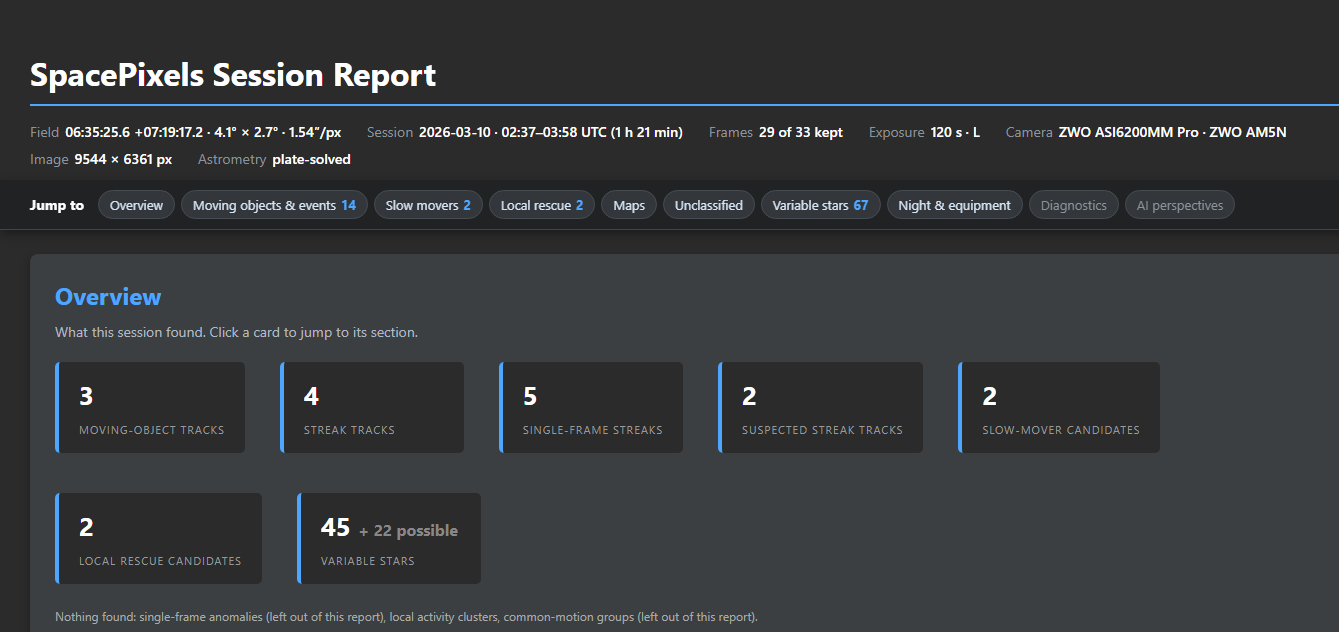
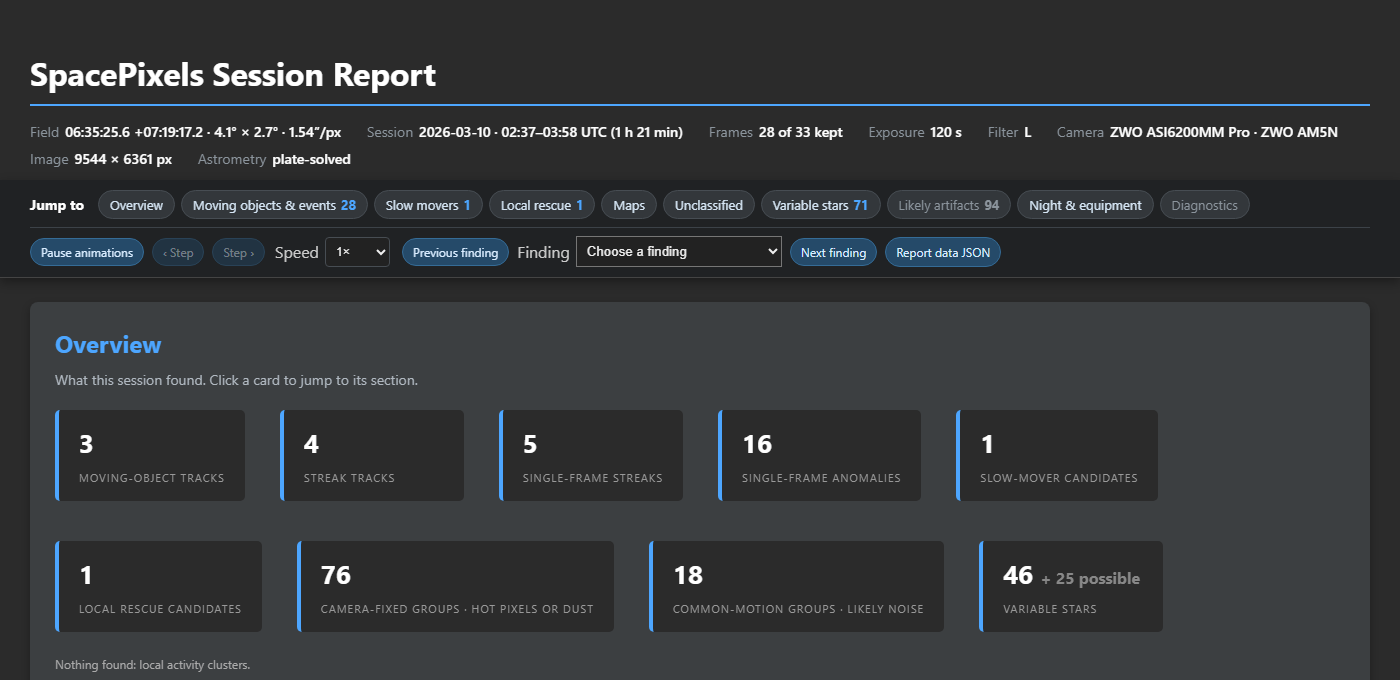
Improve appearance guidance and refresh manual screenshots
Add hover descriptions and offer to save and restart after selecting a
custom FlatLaf file. Restart only after a successful save, preserving
preferences on failure and suppressing restart while closing.

Update the manual and release notes, add dark/light appearance captures,
and refresh outdated workflow, viewer and report pictures and captions.

Validation:
- 14 targeted appearance tests passed, including save/restart ordering,
  invalid custom-file handling and closing during a save.
- Verified 17 PNG captures and 141 local documentation links/images.
- Swing captures were rendered offscreen with isolated settings and
  restored preferences; report figures used a saved real-data report.
- Staged whitespace check passed.

diff --git a/src/test/java/eu/startales/spacepixels/gui/AppearancePanelTest.java b/src/test/java/eu/startales/spacepixels/gui/AppearancePanelTest.java
@@ -1,0 +1,92 @@
+package eu.startales.spacepixels.gui;
+
+import eu.startales.spacepixels.session.ApplicationStorage;
+import org.junit.Rule;
+import org.junit.Test;
+import org.junit.rules.TemporaryFolder;
+
+import javax.swing.SwingUtilities;
+import java.nio.file.Files;
+import java.util.concurrent.CountDownLatch;
+import java.util.concurrent.TimeUnit;
+import java.util.concurrent.atomic.AtomicBoolean;
+import java.util.concurrent.atomic.AtomicInteger;
+
+import static org.junit.Assert.*;
+
+/** Checks that an agreed custom-style restart follows a successful save and respects closing or failed writes. */
+public class AppearancePanelTest {
+    @Rule public final TemporaryFolder temporary = new TemporaryFolder();
+
+    /** A queued settings write must finish before the selected custom style can trigger a restart. */
+    @Test public void savesCustomStyleBeforeRequestingRestart() throws Exception {
+        var style = temporary.newFile("custom.properties").toPath();
+        Files.writeString(style, "@background=#202020\n");
+        var preferences = temporary.newFile("appearance.json");
+        AppearanceSettings.defaults().save(preferences);
+        var storage = new ApplicationStorage();
+        var release = new CountDownLatch(1);
+        var entered = new CountDownLatch(1);
+        var restarts = new AtomicInteger();
+        storage.submit("Pending settings", () -> {
+            entered.countDown();
+            if (!release.await(10, TimeUnit.SECONDS)) throw new AssertionError("Pending write was not released");
+            return null;
+        });
+        try {
+            assertTrue(entered.await(10, TimeUnit.SECONDS));
+            SwingUtilities.invokeAndWait(() -> new AppearancePanel(
+                    new AppearanceSettings(AppearanceSettings.Theme.LIGHT, 125, style.toString()), null,
+                    preferences, storage, () -> false, restarts::incrementAndGet).save(true));
+            assertEquals(0, restarts.get());
+            assertEquals(AppearanceSettings.defaults(), AppearanceSettings.load(preferences));
+        } finally {
+            release.countDown();
+            storage.finish();
+            SwingUtilities.invokeAndWait(() -> { });
+        }
+        assertEquals(1, restarts.get());
+        assertEquals(new AppearanceSettings(AppearanceSettings.Theme.LIGHT, 125, style.toString()),
+                AppearanceSettings.load(preferences));
+    }
+
+    /** An unreadable selected file preserves saved preferences and never requests a restart. */
+    @Test public void invalidCustomStyleDoesNotSaveOrRestart() throws Exception {
+        var preferences = temporary.newFile("appearance.json");
+        AppearanceSettings.defaults().save(preferences);
+        var restarts = new AtomicInteger();
+        var storage = new ApplicationStorage();
+        try {
+            SwingUtilities.invokeAndWait(() -> new AppearancePanel(
+                    new AppearanceSettings(AppearanceSettings.Theme.DARK, 100,
+                            temporary.getRoot().toPath().resolve("missing.properties").toString()), null,
+                    preferences, storage, () -> false, restarts::incrementAndGet).save(true));
+        } finally {
+            storage.finish();
+            SwingUtilities.invokeAndWait(() -> { });
+        }
+        assertEquals(0, restarts.get());
+        assertEquals(AppearanceSettings.defaults(), AppearanceSettings.load(preferences));
+        assertTrue(storage.getSettingsFailures().containsKey("Appearance"));
+    }
+
+    /** Closing drains an admitted save without allowing its later completion to restart the application. */
+    @Test public void closingSuppressesTheRestartAfterAnAdmittedSave() throws Exception {
+        var preferences = temporary.getRoot().toPath().resolve("appearance.json").toFile();
+        var restarts = new AtomicInteger();
+        var closing = new AtomicBoolean();
+        var storage = new ApplicationStorage();
+        try {
+            SwingUtilities.invokeAndWait(() -> {
+                new AppearancePanel(AppearanceSettings.defaults(), null, preferences,
+                        storage, closing::get, restarts::incrementAndGet).save(true);
+                closing.set(true);
+            });
+        } finally {
+            storage.finish();
+            SwingUtilities.invokeAndWait(() -> { });
+        }
+        assertEquals(0, restarts.get());
+        assertEquals(AppearanceSettings.defaults(), AppearanceSettings.load(preferences));
+    }
+}

diff --git a/src/main/java/eu/startales/spacepixels/gui/AppearancePanel.java b/src/main/java/eu/startales/spacepixels/gui/AppearancePanel.java
@@ -34,6 +34,10 @@ final class AppearancePanel extends JPanel {
         this.closing = closing;
         this.preferences = preferences;
         this.restart = restart;
+        browse.setToolTipText("Choose a FlatLaf .properties file to customise the theme, with an option to save and restart.");
+        clear.setToolTipText("Clear the custom style file selection. Save and restart to use the built-in theme.");
+        save.setToolTipText("Save these appearance settings, then choose when to restart SpacePixels to apply them.");
+        reset.setToolTipText("Select Dark at 100% and clear the custom style file. Save and restart to apply these defaults.");
         ((JSpinner.DefaultEditor) scale.getEditor()).getTextField().setColumns(4);
         Form form = new Form();
         JLabel title = new JLabel("Appearance");
@@ -52,7 +56,7 @@ final class AppearancePanel extends JPanel {
         AccessibleControls.label(fileLabel, custom, "An optional FlatLaf .properties file that overrides the selected theme.");
         form.row(fileLabel);
         form.compact(fileRow);
-        form.note("Advanced: choose a FlatLaf .properties file to customise colours or fonts. Relative paths are resolved in your home folder. Clear uses the built-in theme. An example is included in config/appearance-example.properties.");
+        form.note("Advanced: choose a FlatLaf .properties file to customise colours or fonts. Clear uses the built-in theme. An example is included in config/appearance-example.properties.");
         JPanel actions = new WrappingControlsPanel(UiStyle.space(8), UiStyle.space(4));
         actions.add(save);
         actions.add(reset);
@@ -71,7 +75,7 @@ final class AppearancePanel extends JPanel {
             show(AppearanceSettings.defaults());
             message("Defaults selected. Save and restart SpacePixels to apply them.");
         });
-        save.addActionListener(event -> save());
+        save.addActionListener(event -> save(false));
     }
 
     /** Shows values only; restoring defaults does not change a file or other application settings. */
@@ -81,18 +85,25 @@ final class AppearancePanel extends JPanel {
         custom.setText(settings.customProperties());
     }
 
-    /** Uses the normal file chooser; opening a file never changes it. */
+    /** Selects a custom style file and offers to save appearance settings and restart. */
     private void chooseFile() {
         JFileChooser chooser = WindowSizing.fileChooser(null);
         chooser.setDialogTitle("Choose appearance properties");
         chooser.setFileFilter(new FileNameExtensionFilter("FlatLaf properties (*.properties)", "properties"));
         if (chooser.showOpenDialog(this) == JFileChooser.APPROVE_OPTION) {
             custom.setText(chooser.getSelectedFile().getAbsolutePath());
+            Object[] choices = {"Save and restart", "Keep editing"};
+            int answer = JOptionPane.showOptionDialog(this,
+                    "Custom style file selected. Save appearance settings and restart SpacePixels to apply the new look?\n"
+                            + "Running work will finish first.",
+                    "Apply custom appearance", JOptionPane.DEFAULT_OPTION, JOptionPane.QUESTION_MESSAGE,
+                    null, choices, choices[1]);
+            if (answer == 0) save(true);
         }
     }
 
-    /** Captures checked controls on the EDT and reads/writes files exclusively on the settings worker. */
-    private void save() {
+    /** Saves checked controls on the settings worker; an agreed restart runs on the EDT only after a successful save. */
+    void save(boolean restartAfterSave) {
         AppearanceSettings requested;
         try {
             scale.commitEdit();
@@ -114,6 +125,10 @@ final class AppearancePanel extends JPanel {
             message(failure == null ? "Appearance saved. Restart SpacePixels to apply your changes."
                     : "Appearance was not saved: " + failure.getMessage());
             if (failure == null) {
+                if (restartAfterSave) {
+                    restart.run();
+                    return;
+                }
                 Object[] choices = {"Restart now", "Later"};
                 int answer = JOptionPane.showOptionDialog(this,
                         "Appearance saved. Restart SpacePixels to apply your changes?\nRunning work will finish first.",

diff --git a/MANUAL.md b/MANUAL.md
@@ -93,17 +93,23 @@ The **User Manual** link at the right end of the tab bar opens this manual in yo
 
 Open **Appearance**, which is available before importing frames. Choose **Dark**, **High contrast dark** (white text and clear borders on a near-black background), or **Light**. **Interface size (%)** ranges from 100 to 300 and enlarges text and controls together. It applies in addition to operating-system display scaling and any launcher scaling option.
 
+![The Appearance tab with the Dark theme](docs/images/manual/ui-appearance-dark.png)
+
 Click **Save appearance**, then choose **Restart now** or **Later**. Restart now waits for any running task and pending saves before reopening SpacePixels automatically. Later keeps the current appearance until you next start the application. The selected size and colours are applied before any windows open. **Restore defaults** selects Dark at 100% and clears the custom style file; click Save and restart to keep that choice. The preferences are saved independently as `spacepixels_appearance.json` in your home folder. Image zoom, image stretch and the HTML report retain their separate presentation controls.
+
+Hover over **Browse…**, **Clear**, **Save appearance** or **Restore defaults** for a description of the action.
+
+![The same Appearance tab with the Light theme applied](docs/images/manual/ui-appearance-light.png)
 
 Appearance inputs keep compact widths that fit their values and options. Viewer and configuration windows have minimum sizes based on their controls and the current font size. On a display too small for all controls at once, scroll or Tab through the control area to reach the rest.
 
-For an editable stylesheet, copy `config/appearance-example.properties` from the archive (or `app/config/appearance-example.properties` from the Windows installation) to a writable location, edit it, and select it with **Browse…**. The example is intended for Dark or High contrast dark. The UTF-8 file uses FlatLaf properties such as `@background`, `@foreground`, `SpacePixels.helpForeground`, `SpacePixels.linkForeground` and `defaultFont`; unspecified values come from the selected theme. Save and restart after editing the file. Relative paths are resolved in your home folder. **Clear** removes the override when you next save. If the file cannot be read, startup uses the selected built-in theme and explains the problem on Appearance; a failed save keeps the previous preferences.
+For an editable stylesheet, copy `config/appearance-example.properties` from the archive (or `app/config/appearance-example.properties` from the Windows installation) to a writable location, edit it, and select it with **Browse…**. After you choose a file, SpacePixels offers **Save and restart** to apply it, or **Keep editing** to leave the selection in the form without saving. Restart follows a successful save and waits for running work. The example is intended for Dark or High contrast dark. The UTF-8 file uses FlatLaf properties such as `@background`, `@foreground`, `SpacePixels.helpForeground`, `SpacePixels.linkForeground` and `defaultFont`; unspecified values come from the selected theme. Save and restart after editing the file. **Clear** removes the override when you next save. If the file cannot be read, startup uses the selected built-in theme and explains the problem on Appearance; a failed save keeps the previous preferences.
 
 ---
 
 ## 3. Workflow: find moving objects in a session
 
-This is the main use of SpacePixels: **import → Auto-Tune → Detect → read the report**. The screenshots come from a session of 33 two-minute frames of a 61-megapixel camera.
+This is the main use of SpacePixels: **import → Auto-Tune → Detect → read the report**. The screenshots come from a session of 33 two-minute frames of a 61-megapixel camera. They illustrate several runs of that session, so finding numbers and counts can differ with the settings and software version.
 
 ### Step 1: import the frames
 
@@ -123,7 +129,7 @@ If **Solved** says `No`, select one frame and click **Plate Solve Selected** in 
 
 - **ASTAP Executable Path**: choose `astap.exe` (or the ASTAP program on Linux and macOS) and click **Check**. Or pick **Astrometry.net (online)** under the Plate Solve button, which needs nothing installed.
 - **Astrometry.net Account**: **Anonymous** (the default) needs no account. To solve with your own account, choose **My API key** and paste your key: sign in at [nova.astrometry.net](https://nova.astrometry.net) and find it in the **My Profile** section of the dashboard. Your uploads then also show up on your Astrometry.net profile. **Check** logs in without uploading anything. The choice and the key are saved at once, the key in plain text in `spacepixels_app.json` in your home folder. Either way, images are submitted as private. Anonymous uploads all belong to one Astrometry.net account shared by every anonymous user, so SpacePixels uploads a copy of the frame without your site location (`SITELAT`, `SITELONG`, elevation and similar header cards) or the observer and site names; the frame on disk is not changed and the solve is the same.
-- **Observing Site**: your latitude and longitude, or your IAU observatory code, make the object identification exact for your location. When the FITS headers contain the site (as here), SpacePixels uses them; **Fill Site from FITS Header** copies them into the fields.
+- **Observing Site**: your latitude and longitude, or your IAU observatory code, make the object identification exact for your location. When the FITS headers contain the site, SpacePixels uses them; **Fill Site from FITS Header** copies them into the fields.
 - **Sky Catalogue (Annotate)**: how faint the stars are that **Fetch Sky Catalogue** downloads (**Star Depth**, see [Annotate](#annotate-stars-deep-sky-objects-and-variable-stars)).
 
 ASTAP checks run in the background and show **Checking ASTAP installation...** while inspecting the program and nearby star databases. Selecting a different executable supersedes an older check without freezing the window. Application-default saves also run in the background; a failed save leaves the valid settings in use, with a warning so you can retry.
@@ -285,7 +291,7 @@ With a plate solution, observing location and exposure timing, **Check satellite
 
 ### Maps
 
-![Global trajectory map](docs/images/manual/report-map.jpg)
+![Global trajectory map](docs/images/manual/report-map.png)
 
 The **Map of All Detections** draws every result over the whole field, with its label (T1, ST2, A3…) and one colour per kind, counted in the legend above it. Here the long lines are satellite trails, and the magenta circles single-frame anomalies. With the sky catalogue, the map also names the well-known deep-sky objects, the bright named stars and the brightest named variable stars of the field, as in the session picture. The map category buttons hide or show each type of finding; click a label or marker to open its card. **Catalogue** toggles the known sky objects, while **Variable-star candidate** toggles measured candidates. The full-size PNG remains available. The **Time Maps** below it show every detection that was not a star, coloured by time, which is useful to see where the noise is.
 
@@ -345,7 +351,7 @@ The buttons that say **Here** show the answer inside the report. They need Space
 
 ![JPL identifies the track](docs/images/manual/report-identify.png)
 
-Here **Render JPL Results Here** identifies track T1 of the session above as the asteroid **4767 Sutoku**, magnitude 17.7, 12″ from the measured track position. Look at the **distance from center** and the **visual magnitude** to decide which entry is your object: the right one is close to the track position (within a few pixels of your image scale) and bright enough for your setup.
+In this identification example, **Render JPL Results Here** identifies track T1 as the asteroid **4767 Sutoku**, magnitude 17.7, 12″ from the measured track position. Look at the **distance from center** and the **visual magnitude** to decide which entry is your object: the right one is close to the track position (within a few pixels of your image scale) and bright enough for your setup.
 
 For fast near-Earth objects, use **Render JPL NEO Recovery Results Here** as well:
 
@@ -361,7 +367,7 @@ For exact results, set your observing site on the **Astrometry Config** tab (or 
 
 ### Asteroids in a wide field
 
-The session of [section 3](#3-workflow-find-moving-objects-in-a-session): 33 frames of 2 minutes with a 61-megapixel camera, plate-solved in the FITS headers. SpacePixels found three moving objects, and the JPL buttons identified all three:
+The session of [section 3](#3-workflow-find-moving-objects-in-a-session): 33 frames of 2 minutes with a 61-megapixel camera, plate-solved in the FITS headers. In one run, SpacePixels found three moving objects, and the JPL buttons identified all three. These track numbers belong to that run:
 
 | Track | Object | Magnitude (V) |
 |---|---|---|
@@ -373,7 +379,7 @@ Sutoku moved only 15 pixels in 77 minutes, yet it was linked through 25 frames. 
 
 ![Detection summary, with the optional groups ticked for the report](docs/images/manual/ui-warning.png)
 
-In the picture the 74 single-frame anomalies are the largest group: short events or noise in single frames. Untick **In report** and they are left out of the report; the moving-object tracks stay. The run shown in [Reading the report](#4-reading-the-report) did that for the anomalies and the common-motion groups.
+The picture shows the current report choices, including camera-fixed groups and variable stars. Untick **In report** beside an optional group to leave it out of that report; moving-object tracks stay included. These choices change the export, not the detections or settings.
 
 ### A comet, without plate solving
 
@@ -403,9 +409,9 @@ The same 61-megapixel session with photometry switched on:
 
 ![Variable-star summary](docs/images/manual/variable-stars-summary.png)
 
-The verdict **Ready** means the data passed the linearity checks. SpacePixels measured 53,869 stars, scored 43,859 of them and reported 45 high-confidence and 22 possible variable stars. A **Limited** or **Not ready** verdict says in plain words why, and for Not ready what could help (for example unstretched frames or a longer sequence).
+The verdict **Ready** means the data passed the linearity checks. In the pictured run, SpacePixels measured 53,914 stars, scored 43,843 of them and reported 46 high-confidence and 25 possible variable stars. A **Limited** or **Not ready** verdict says in plain words why, and for Not ready what could help (for example unstretched frames or a longer sequence).
 
-The candidates are first listed in a table: tier, position, observed variation in this session, the shape of the change (faded, brightened, dipped and recovered…) and any failed check. When the sky catalogue was fetched before the detection, the **Known As** column shows a matched VSX variable name. Without a VSX match, it shows a nearby catalogue star's proper name or Gaia DR3 designation when available, with the source and angular separation. This identifies a catalogue star without claiming it is a known variable. **Look up the N others in VSX** still includes these candidates; this needs SpacePixels running, and the results are saved into the report. A positive VSX result takes precedence; an empty or failed lookup keeps the catalogue star's name. In this session, 52 of the 67 candidates were already in VSX in the saved catalogue, so the button reads **Look up the 15 others in VSX**:
+The candidates are first listed in a table: tier, position, observed variation in this session, the shape of the change (faded, brightened, dipped and recovered…) and any failed check. When the sky catalogue was fetched before the detection, the **Known As** column shows a matched VSX variable name. Without a VSX match, it shows a nearby catalogue star's proper name or Gaia DR3 designation when available, with the source and angular separation. This identifies a catalogue star without claiming it is a known variable. **Look up the N others in VSX** still includes these candidates; this needs SpacePixels running, and the results are saved into the report. A positive VSX result takes precedence; an empty or failed lookup keeps the catalogue star's name. The button counts the candidates still without a VSX match.
 
 **Observed variation in this session** is the 95th minus the 5th percentile of the usable differential magnitudes over the measured time span. It is not a full-cycle amplitude. **Catalogue range** and **Catalogue amplitude** refer to the listed catalogue passbands; filter, phase and time coverage can make them differ from the session measurement. A small fraction of an orbital period can still contain a substantial eclipse.
 
@@ -415,7 +421,7 @@ An amber **review amplitude** note is a conservative screening prompt: the obser
 
 **Review source metadata** identifies a source-verified catalogue discrepancy. The original VSX values remain visible alongside the publication and any unit conversion. Older saved catalogues still load; their shared passband and missing uncertainty metadata are identified as provisional. Fetching the sky catalogue again supplies the additional metadata when the service is available.
 
-![The candidate table. Known As comes from the sky catalogue; V2 was not in it](docs/images/manual/variable-stars-table.png)
+![The candidate table keeps fixed V numbers when presentation order changes; V32 has not yet been checked in VSX](docs/images/manual/variable-stars-table.png)
 
 The same catalogue-star fallback appears on detailed candidate cards. Older saved sky catalogues remain usable; fetch the catalogue again to add Gaia identifiers, which older versions did not retain. The report and Astrometry tooltip explain when those identifiers are missing. General-star matches use the nearest star within 5 arcseconds, moved to the session date; candidates fainter than the fetched Gaia **Star Depth** may need a deeper catalogue. Fetch before detection and regenerate the report; an existing report does not update its static catalogue names. No catalogue lookup is performed automatically during report generation, and the names do not alter measured variation or confidence.
 
@@ -482,7 +488,7 @@ Below the frame: the frame number, file name, capture time and time since the fi
 
 ### Preview Frame
 
-![Preview Frame at 100 %](docs/images/manual/ui-preview.jpg)
+![Preview Frame at 100 %, with its trial settings and Apply to Settings controls](docs/images/manual/ui-preview.png)
 
 Runs the source detection on the selected frame with the current settings and shows what it picks up: green boxes around point sources, red lines along streaks. **◀ ▶** (← →) move to the other frames of the session; each frame is detected when you get to it, with the settings as they are then, and the status bar shows how many point sources and streaks it has. Use it to see what the detector picks up in a single frame.
 
@@ -498,9 +504,9 @@ After a full detection, **Show tracks** (T) draws that run's tracks as Blink doe
 
 ### Manual Transient Inspection
 
-![Manual Transient Inspection: the comet is the only transient left in this frame](docs/images/manual/ui-inspection.jpg)
+![Manual Transient Inspection with trial thresholds and the captured master-mask settings above the comet frame](docs/images/manual/ui-inspection.png)
 
-Runs the detection on all frames of the session (not only the selected ones) and shows, frame by frame, every detection left after the star mask: the candidates for moving objects, before they are linked into tracks. The three per-frame thresholds can be tried without rebuilding the master mask; only the frame on show is re-detected, and Apply to Settings copies the edited values. Edits to other per-frame extraction and filtering settings take effect when a frame is shown again. If the master settings change while the window is open, it says so and keeps the reference, including its jitter radius, until you reopen it. Useful to judge the noise, or to find a faint object by eye that did not form a track. Above, at 200 %, the comet is the only transient left in its frame. The frames stay in memory until you close the window. After a full detection on the session, **Show tracks** (T) draws that run's tracks over these frames, as in Blink.
+Runs the detection on all frames of the session (not only the selected ones) and shows, frame by frame, every detection left after the star mask: the candidates for moving objects, before they are linked into tracks. The three per-frame thresholds can be tried without rebuilding the master mask; only the frame on show is re-detected, and Apply to Settings copies the edited values. Edits to other per-frame extraction and filtering settings take effect when a frame is shown again. If the master settings change while the window is open, it says so and keeps the reference, including its jitter radius, until you reopen it. Useful to judge the noise, or to find a faint object by eye that did not form a track. Above, at 200 %, the comet is outlined using the current trial settings. The frames stay in memory until you close the window. After a full detection on the session, **Show tracks** (T) draws that run's tracks over these frames, as in Blink.
 
 Both windows, and **Show full size** on the Image Stretch tab, work like the blink window: the same stretch as the Image Stretch tab, the same zoom (Fit, 100 %, 200 %, 400 %, scroll to zoom, drag to pan, double-click), and the same status bar with the frame, its time since the first frame, and under the cursor the pixel position, value and, on a plate-solved frame, RA and Dec. **Show detections** (D) hides the markers to see the frame underneath. From 100 % zoom the detected pixels are tinted too. When there are too many detections on screen to tell apart, the markers are left out until you zoom in. Esc closes the window.
 

diff --git a/RELEASE_NOTES.md b/RELEASE_NOTES.md
@@ -10,7 +10,7 @@ Not released yet.
 
 - **Report animation controls.** A shared toolbar pauses animations, steps through frames and changes playback speed from 0.25× to 4×. Frame sheets support immediate changes in the browser; standalone GIF downloads remain available. Reports honour reduced-motion preferences.
 
-- **Appearance.** A new tab offers Dark, High contrast dark and Light themes, interface sizes from 100% to 300%, Restore defaults, and an optional editable FlatLaf properties file. Saving offers Restart now or Later; automatic restart waits for running work and saves. Inputs use compact widths. Viewer and popup windows protect their controls with font-aware minimum sizes, with scrolling when the display cannot fit everything. Help text, active settings, charts and image-viewer annotations follow readable colours and the selected font size. Appearance preferences are saved separately in `spacepixels_appearance.json`; the distribution includes an example stylesheet.
+- **Appearance.** A new tab offers Dark, High contrast dark and Light themes, interface sizes from 100% to 300%, Restore defaults, and an optional editable FlatLaf properties file. Saving offers Restart now or Later; choosing a custom file with Browse also offers to save and restart. Automatic restart waits for running work and saves, and each appearance button explains its action on hover. Inputs use compact widths. Viewer and popup windows protect their controls with font-aware minimum sizes, with scrolling when the display cannot fit everything. Help text, active settings, charts and image-viewer annotations follow readable colours and the selected font size. Appearance preferences are saved separately in `spacepixels_appearance.json`; the distribution includes an example stylesheet.
 
 - **Manual Transient Inspection.** The window keeps the master star mask, including its jitter footprint, from its first pass. Trying Detection Sigma, Grow Sigma or Minimum Pixels re-detects only the frame on show. Cached results account for all detection settings, including background clipping and mask overlap. Apply to Settings copies the edited values. If the master settings change while the window is open, it says so and keeps the reference until the window is opened again. Closing during re-detection lets the cancelled worker close its engine safely.
 
